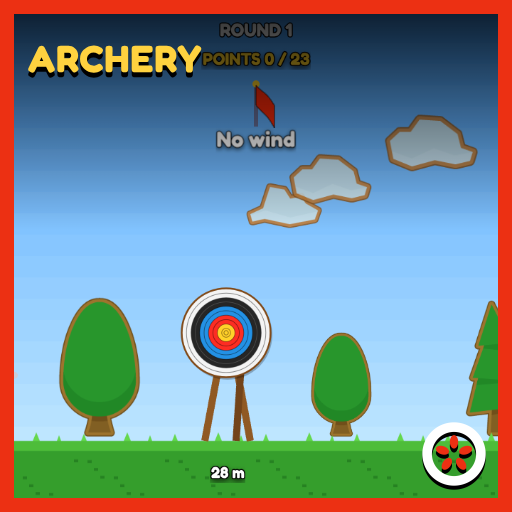
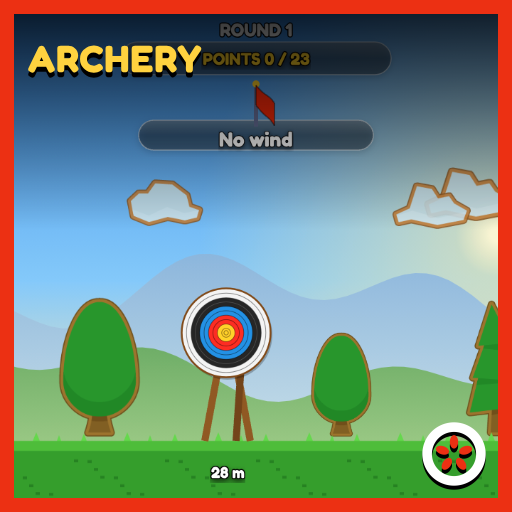
Archery: a side-on draw from the character's poses, scenery and effects
The archer
- stands side-on in the character's hold1 pose, bow arm out in front
  (the grip is found on the pose itself, so every character fits)
- while drawing, the hanging back arm is left out of the pose and the
  character's own arm runs from that shoulder to the string; the string
  comes to the anchor at once and a little further with power
- leans back a little for high shots
- after the release the drawing arm follows through past the ear and
  the string thrums; then back to hold1
- replaces the front-facing armless body with two stretched arms

Polish
- painted sky with a low sun and two ranges of hills
- the bow limbs bend more as it is drawn; arrow head and fletching
- a fading streak behind the arrow and its shadow on the grass
- a ring spreads from where the arrow hits (gold on a 9 or 10)
- glass panels for the points, the quiver and the wind; a rounded
  power gauge; a shadow under the archer
- version 1.1.0

Claude-Session: https://claude.ai/code/session_0175vXZr811A8hQZq6oHnsLr

diff --git a/games/archery/PlayScene.ts b/games/archery/PlayScene.ts
@@ -1,6 +1,6 @@
 import Phaser from 'phaser';
 import { ArcadeScene, CHARACTER_FRAME, Controls, burst, characterRig, playerCharacter, shake, flash, popup, txt, t, rng } from '@core';
-import { W, H, GROUND, RING_COLORS, ARCHER_SCALE, ARCHER_ORIGIN_Y, makeArcheryTextures } from './art';
+import { W, H, GROUND, RING_COLORS, ARCHER_SCALE, ARCHER_ORIGIN_Y, BACK_SHOULDER, makeArcheryTextures, makeDrawBody, glass } from './art';
 
 const BX = 214;            // bow hand
 const BY = GROUND - 74;
@@ -52,12 +52,19 @@ export class PlayScene extends ArcadeScene {
   private clouds: Phaser.GameObjects.Image[] = [];
   private offMark!: Phaser.GameObjects.Triangle;
   private archer!: Phaser.GameObjects.Image;
-  // The archer is the character without arms (pc-archer); these arms hold the bow and draw the
-  // string, posed every frame from the shoulders (character rig) to the grip and the nock.
-  private bowArm!: Phaser.GameObjects.Image;
+  // The archer stands side-on in the character's `hold1` pose, bow arm out in front. While the
+  // bow is drawn the hanging back arm is left out (pc-hold1-draw) and the character's own `arm`
+  // runs from that shoulder to the string; after the release it follows through past the ear.
   private drawArm!: Phaser.GameObjects.Image;
-  private bowHand!: Phaser.GameObjects.Image;
   private drawHand!: Phaser.GameObjects.Image;
+  private drawBody = 'pc-hold1';
+  private grip: [number, number] = [124, 106];   // bow hand on the pose frame
+  private gx = BX; private gy = BY;               // bow hand in the world
+  private lean = 0;
+  private releaseT = 0;
+  private trailG!: Phaser.GameObjects.Graphics;
+  private trail: { x: number; y: number }[] = [];
+  private arrowShadow!: Phaser.GameObjects.Image;
   private rig = characterRig(playerCharacter());
   private wave = 0;
 
@@ -67,7 +74,10 @@ export class PlayScene extends ArcadeScene {
     this.angle = Phaser.Math.DegToRad(-12); this.power = 0; this.drawing = false; this.dragFrom = null; this.kbDraw = false;
     this.wind = 0; this.windBase = 0; this.stuck = []; this.quiver = []; this.dots = []; this.clouds = []; this.flying = undefined; this.wave = 0;
 
-    this.add.image(0, 0, 'sky').setOrigin(0).setDisplaySize(W, H).setDepth(-20);
+    this.add.image(0, 0, 'ar-sky').setOrigin(0).setDepth(-20);
+    this.add.image(0, 0, 'ar-hills-far').setOrigin(0).setDepth(-16);
+    this.add.image(0, 0, 'ar-hills-near').setOrigin(0).setDepth(-12);
+    this.lean = 0; this.releaseT = 0; this.trail = [];
     for (let i = 0; i < 4; i++) {
       const c = this.add.image(rng.int(0, W), rng.int(150, 300), i % 2 ? 'cloud1' : 'cloud2').setDepth(-15).setAlpha(0.9).setScale(rng.int(70, 110) / 100);
       this.clouds.push(c);
@@ -79,23 +89,29 @@ export class PlayScene extends ArcadeScene {
 
     this.stand = this.add.graphics().setDepth(1);
     this.face = this.add.image(this.tx, this.ty, 'face').setDepth(2);
-    this.archer = this.add.image(ARCHER_X, GROUND + 2, 'pc-archer').setOrigin(0.5, ARCHER_ORIGIN_Y).setScale(ARCHER_SCALE).setDepth(5);
+    const made = makeDrawBody(this);
+    this.drawBody = made.body; this.grip = made.grip;
+    this.archer = this.add.image(ARCHER_X, GROUND + 2, 'pc-hold1').setOrigin(0.5, ARCHER_ORIGIN_Y).setScale(ARCHER_SCALE).setDepth(5);
+    this.add.image(ARCHER_X, GROUND + 4, 'ar-glow').setTint(0x000000).setAlpha(0.35).setDisplaySize(90, 18).setDepth(4);
     this.rig = characterRig(playerCharacter());
     const shoulderY = 4 / this.rig.arm[1];   // pivot a few px below the top of the arm
-    this.drawArm = this.add.image(0, 0, 'pc-arm').setOrigin(0.5, shoulderY).setDepth(4);   // far arm, behind the body
     this.bowG = this.add.graphics().setDepth(7);
-    this.bowArm = this.add.image(0, 0, 'pc-arm').setOrigin(0.5, shoulderY).setDepth(8);
-    this.drawHand = this.add.image(0, 0, 'pc-hand').setScale(ARCHER_SCALE).setDepth(9);
-    this.bowHand = this.add.image(0, 0, 'pc-hand').setScale(ARCHER_SCALE).setDepth(9);
+    this.drawArm = this.add.image(0, 0, 'pc-arm').setOrigin(0.5, shoulderY).setDepth(8).setVisible(false);
+    this.drawHand = this.add.image(0, 0, 'pc-hand').setScale(ARCHER_SCALE).setDepth(9).setVisible(false);
+    this.trailG = this.add.graphics().setDepth(7);
+    this.arrowShadow = this.add.image(0, GROUND + 4, 'ar-glow').setTint(0x000000).setAlpha(0).setDisplaySize(60, 8).setDepth(-4);
     this.flagG = this.add.graphics().setDepth(3);
     for (let i = 0; i < 9; i++) this.dots.push(this.add.image(0, 0, 'dot').setDepth(7).setVisible(false));
     this.offMark = this.add.triangle(0, 30, 0, 18, 12, 0, 24, 18, 0xec3013).setDepth(50).setVisible(false);
 
-    this.windText = txt(this, W / 2, 196, '', { size: 26, color: '#ffffff' }).setDepth(40);
+    this.windText = txt(this, W / 2, 196, '', { size: 24, color: '#ffffff' }).setDepth(40);
     this.distText = txt(this, 0, GROUND + 40, '', { title: true, size: 18, color: '#ffffff' }).setDepth(40);
+    this.add.image(W / 2, 82, glass(this, 380, 46)).setDepth(39);
+    this.add.image(92, 90, glass(this, 150, 56)).setDepth(39);
+    this.add.image(W / 2, 190, glass(this, 330, 42)).setDepth(2.5);
     this.needText = txt(this, W / 2, 82, '', { title: true, size: 20, color: '#ffd23f' }).setDepth(40);
     for (let i = 0; i < ARROWS; i++) {
-      this.quiver.push(this.add.image(40 + i * 26, 90, 'arrow').setAngle(-90).setScale(0.55).setDepth(40));
+      this.quiver.push(this.add.image(40 + i * 26, 90, 'arrow').setAngle(-90).setScale(0.5).setDepth(40));
     }
 
     this.controls = new Controls(this);
@@ -210,8 +226,10 @@ export class PlayScene extends ArcadeScene {
 
   private shoot(): void {
     const v = MIN_V + (MAX_V - MIN_V) * this.power;
-    this.ax = BX + Math.cos(this.angle) * 30;
-    this.ay = BY + Math.sin(this.angle) * 30;
+    this.ax = this.gx + Math.cos(this.angle) * 30;
+    this.ay = this.gy + Math.sin(this.angle) * 30;
+    this.releaseT = 0.42;
+    this.trail = [];
     this.avx = Math.cos(this.angle) * v;
     this.avy = Math.sin(this.angle) * v;
     this.flying = this.add.image(this.ax, this.ay, 'arrow').setOrigin(1, 0.5).setDepth(8).setRotation(this.angle);
@@ -278,7 +296,7 @@ export class PlayScene extends ArcadeScene {
   private failRound(): void {
     this.phase = 'between';
     this.sfx('fail', { volume: 0.7 });
-    for (const o of [this.archer, this.bowArm, this.drawArm, this.bowHand, this.drawHand]) o.setTint(0xff9a9a);
+    for (const o of [this.archer, this.drawArm, this.drawHand]) o.setTint(0xff9a9a);
     shake(this, 0.01, 250);
     this.endGame({ title: t('roundFail'), delay: 900 });
   }
@@ -322,9 +340,21 @@ export class PlayScene extends ArcadeScene {
       if (cl.x < -120) cl.x = W + 120;
     }
 
-    this.drawBow();
+    this.releaseT = Math.max(0, this.releaseT - dt);
+    this.drawBow(dt);
     this.drawFlag();
     this.drawPreview();
+    // a fading streak behind the arrow and its shadow on the grass
+    const tg = this.trailG;
+    tg.clear();
+    if (this.phase === 'flight') {
+      for (let i = 1; i < this.trail.length; i++) {
+        const a = this.trail[i - 1], b = this.trail[i], f = i / this.trail.length;
+        tg.lineStyle(1 + f * 3, 0xffffff, 0.45 * f).lineBetween(a.x, a.y, b.x, b.y);
+      }
+      const h = Math.max(0, GROUND - this.ay);
+      this.arrowShadow.setPosition(this.ax - 30, GROUND + 4).setAlpha(Math.max(0.08, 0.4 - h / 1200)).setDisplaySize(70 + h * 0.08, 8);
+    } else this.arrowShadow.setAlpha(0);
   }
 
   private fly(dt: number): void {
@@ -352,6 +382,9 @@ export class PlayScene extends ArcadeScene {
           this.tweens.add({ targets: a, scaleX: { from: 1.08, to: 1 }, duration: 120, yoyo: true });
           this.tweens.add({ targets: this.face, x: this.tx + 6, duration: 50, yoyo: true });
           burst(this, this.tx, yc, [0xc9a26b, 0xffffff, RING_COLORS[pts - 1]], 14, 220);
+          const ring = this.add.image(this.tx, yc, 'ar-ring').setScale(0.1).setDepth(6).setTint(pts >= 9 ? 0xffd23f : 0xffffff);
+          this.tweens.add({ targets: ring, scale: this.tr / 40, alpha: 0, duration: 380, ease: 'Cubic.easeOut', onComplete: () => ring.destroy() });
+          this.trail = [];
           this.sfx('thunk', { volume: 0.7 });
           shake(this, 0.004, 120);
           this.resolve(pts, this.tx, yc, x ? 'X' : undefined);
@@ -362,6 +395,7 @@ export class PlayScene extends ArcadeScene {
         a.setPosition(this.ax, GROUND + 6).setRotation(Math.atan2(this.avy, this.avx));
         this.stuck.push({ img: a, dy: 0, onTarget: false });
         burst(this, this.ax, GROUND, [0x6b4a2b, 0x58b947], 12, 200);
+        this.trail = [];
         this.sfx('ground', { volume: 0.6 });
         this.resolve(0, this.ax, GROUND);
         return;
@@ -373,56 +407,87 @@ export class PlayScene extends ArcadeScene {
       }
     }
     a.setPosition(this.ax, this.ay).setRotation(Math.atan2(this.avy, this.avx));
+    this.trail.push({ x: this.ax, y: this.ay });
+    if (this.trail.length > 14) this.trail.shift();
     // off the top of the screen: a marker shows where the arrow is
     this.offMark.setVisible(this.ay < 0).setPosition(Phaser.Math.Clamp(this.ax, 20, W - 20), 26);
     if (this.ay >= 0) this.offMark.setVisible(false);
   }
 
-  private drawBow(): void {
+  /** A point of the pose frame (px) in the world, with the archer's position, scale and lean. */
+  private framePt(fx: number, fy: number): [number, number] {
+    const lx = (fx - CHARACTER_FRAME.width / 2) * ARCHER_SCALE, ly = (fy - CHARACTER_FRAME.height * CHARACTER_FRAME.originY) * ARCHER_SCALE;
+    const c = Math.cos(this.lean), s = Math.sin(this.lean);
+    return [this.archer.x + lx * c - ly * s, this.archer.y + lx * s + ly * c];
+  }
+
+  private drawBow(dt: number): void {
     const g = this.bowG;
     g.clear();
+    const drawing = this.phase === 'aim' && (this.power > 0 || !!this.dragFrom || this.kbDraw);
+    const follow = this.releaseT > 0;
+    // the archer leans back a little to shoot high, and steps into it with the draw
+    const target = this.phase === 'aim' || follow ? Phaser.Math.Clamp(this.angle * 0.42, -0.36, 0.1) : 0;
+    this.lean += (target - this.lean) * Math.min(1, dt * 10);
+    this.archer.setRotation(this.lean).setTexture(drawing || follow ? this.drawBody : 'pc-hold1');
+    const [gx, gy] = this.framePt(this.grip[0], this.grip[1]);
+    this.gx = gx; this.gy = gy;
     const ang = this.angle;
     const cos = Math.cos(ang), sin = Math.sin(ang);
-    const P = (lx: number, ly: number): [number, number] => [BX + lx * cos - ly * sin, BY + lx * sin + ly * cos];
-    const pull = 4 + this.power * 42;
+    const P = (lx: number, ly: number): [number, number] => [gx + lx * cos - ly * sin, gy + lx * sin + ly * cos];
+    // the string comes back to the anchor by the jaw at once, then a little further with power
+    const pull = drawing ? (30 + this.power * 12) * ARCHER_SCALE / 0.76 : follow ? 2 : 4;
     const shakeAmt = this.power > 0.95 ? Math.sin(this.wave * 60) * 1.2 : 0;
-    // limbs
-    const curve = new Phaser.Curves.QuadraticBezier(new Phaser.Math.Vector2(...P(-6, -52)), new Phaser.Math.Vector2(...P(26, 0)), new Phaser.Math.Vector2(...P(-6, 52)));
-    g.lineStyle(9, 0x5a3010).strokePoints(curve.getPoints(16));
-    g.lineStyle(4, 0xb5793c).strokePoints(curve.getPoints(16));
-    // string
-    const [sx1, sy1] = P(-6, -52), [sx2, sy2] = P(-6, 52), [nx, ny] = P(-pull, shakeAmt);
+    // after the release the string thrums
+    const thrum = follow ? Math.sin(this.releaseT * 90) * 6 * (this.releaseT / 0.42) : 0;
+    // limbs bend more as the string comes back
+    const bend = 26 + (drawing ? this.power * 8 : 0);
+    const curve = new Phaser.Curves.QuadraticBezier(new Phaser.Math.Vector2(...P(-6, -52)), new Phaser.Math.Vector2(...P(bend, 0)), new Phaser.Math.Vector2(...P(-6, 52)));
+    g.lineStyle(9, 0x4a2608).strokePoints(curve.getPoints(16));
+    g.lineStyle(4, 0xc08546).strokePoints(curve.getPoints(16));
+    const [sx1, sy1] = P(-6, -52), [sx2, sy2] = P(-6, 52), [nx, ny] = P(-pull + thrum, shakeAmt);
     g.lineStyle(2, 0xffffff, 0.9).lineBetween(sx1, sy1, nx, ny).lineBetween(nx, ny, sx2, sy2);
-    // arms: the front shoulder holds the grip, the back shoulder draws the string at the nock
-    const [gx, gy] = P(2, 0);
-    this.poseArm(this.bowArm, this.bowHand, this.rig.shoulders[1], gx, gy);
-    this.poseArm(this.drawArm, this.drawHand, this.rig.shoulders[0], nx, ny);
-    // nocked arrow
-    if (this.phase === 'aim' || this.phase === 'between') {
-      if (this.phase === 'aim') {
-        const [tx, ty] = P(-pull + 92, shakeAmt);
-        g.lineStyle(4, 0x8a5a2b).lineBetween(nx, ny, tx, ty);
-        g.fillStyle(0xc9cdd8).fillCircle(tx, ty, 5);
-        g.fillStyle(0xec3013).fillCircle(nx, ny, 5);
+    // grip wrap over the bow hand
+    const [wx, wy] = P(4, 0);
+    g.fillStyle(0x2a1405).fillCircle(wx, wy, 5);
+    // the drawing arm: from the back shoulder to the string, or flung back after the release
+    if (drawing || follow) {
+      const shoulder = this.framePt(BACK_SHOULDER[0], BACK_SHOULDER[1]);
+      let hx = nx, hy = ny;
+      if (follow) {
+        const k = 1 - this.releaseT / 0.42;
+        const [ax, ay] = P(-34, 0);
+        const back = Phaser.Math.Easing.Cubic.Out(Math.min(1, k * 2.5));
+        hx = ax - back * 26 * ARCHER_SCALE / 0.76; hy = ay - back * 14 * ARCHER_SCALE / 0.76;
       }
+      this.drawArm.setVisible(true); this.drawHand.setVisible(true);
+      this.poseArm(this.drawArm, this.drawHand, shoulder, hx, hy);
+    } else { this.drawArm.setVisible(false); this.drawHand.setVisible(false); }
+    // nocked arrow
+    if (this.phase === 'aim') {
+      const [tx, ty] = P(-pull + 92, shakeAmt);
+      g.lineStyle(4, 0x8a5a2b).lineBetween(nx, ny, tx, ty);
+      g.fillStyle(0xc9cdd8).fillTriangle(tx + cos * 8, ty + sin * 8, tx - sin * 5, ty + cos * 5, tx + sin * 5, ty - cos * 5);
+      const [fx1, fy1] = P(-pull + 4, -5), [fx2, fy2] = P(-pull + 4, 5), [fx3, fy3] = P(-pull + 16, 0);
+      g.fillStyle(0xec3013).fillTriangle(fx1, fy1, fx2, fy2, fx3, fy3);
     }
     // power gauge
     if (this.phase === 'aim' && this.power > 0) {
-      g.fillStyle(0x000000, 0.5).fillRect(BX - 80, GROUND + 24, 160, 18);
+      g.fillStyle(0x000000, 0.5).fillRoundedRect(BX - 82, GROUND + 22, 164, 22, 8);
       const col = this.power > 0.85 ? 0xec3013 : this.power > 0.5 ? 0xffd23f : 0x5dff7a;
-      g.fillStyle(col).fillRect(BX - 78, GROUND + 26, 156 * this.power, 14);
+      g.fillStyle(col).fillRoundedRect(BX - 78, GROUND + 26, 156 * this.power, 14, 6);
+      g.fillStyle(0xffffff, 0.35).fillRoundedRect(BX - 76, GROUND + 27, 152 * this.power, 4, 2);
     }
   }
 
-  /** Points an arm from a shoulder (frame px of the rig) to a hand position in the world. */
+  /** Points an arm from a shoulder (world) to a hand position in the world. */
   private poseArm(arm: Phaser.GameObjects.Image, hand: Phaser.GameObjects.Image, shoulder: [number, number], hx: number, hy: number): void {
-    const sx = this.archer.x + (shoulder[0] - CHARACTER_FRAME.width / 2) * ARCHER_SCALE;
-    const sy = this.archer.y + (shoulder[1] - CHARACTER_FRAME.height * CHARACTER_FRAME.originY) * ARCHER_SCALE;
+    const [sx, sy] = shoulder;
     const dist = Math.hypot(hx - sx, hy - sy);
-    // the arm image hangs down from the shoulder; it stretches or shortens to reach the hand
+    // the arm image hangs down from the shoulder; it shortens a little when the hand comes close
     const length = this.rig.arm[1] * ARCHER_SCALE;
     arm.setPosition(sx, sy).setRotation(Math.atan2(hy - sy, hx - sx) - Math.PI / 2)
-      .setScale(ARCHER_SCALE, ARCHER_SCALE * Phaser.Math.Clamp(dist / length, 0.45, 2.2));
+      .setScale(ARCHER_SCALE, ARCHER_SCALE * Phaser.Math.Clamp(dist / length, 0.6, 1.25));
     hand.setPosition(hx, hy).setRotation(arm.rotation);
   }
 
@@ -433,8 +498,8 @@ export class PlayScene extends ArcadeScene {
     this.dots.forEach((d, i) => {
       if (!show) { d.setVisible(false); return; }
       const tt = ((i + 1) / this.dots.length) * span;
-      const x = BX + Math.cos(this.angle) * (30 + v * tt);
-      const y = BY + Math.sin(this.angle) * 30 + Math.sin(this.angle) * v * tt + 0.5 * GRAV * tt * tt;
+      const x = this.gx + Math.cos(this.angle) * (30 + v * tt);
+      const y = this.gy + Math.sin(this.angle) * 30 + Math.sin(this.angle) * v * tt + 0.5 * GRAV * tt * tt;
       d.setVisible(true).setPosition(x, y).setAlpha(1 - i / this.dots.length).setScale(0.9 - i * 0.06);
     });
   }

diff --git a/games/archery/art.ts b/games/archery/art.ts
@@ -12,7 +12,95 @@ export const ARCHER_ORIGIN_Y = CHARACTER_FRAME.originY;
 /** WA-style ten ring face: white, black, blue, red, gold (two rings each). */
 export const RING_COLORS = [0xf4f4f4, 0xf4f4f4, 0x262626, 0x262626, 0x2f8fd8, 0x2f8fd8, 0xe8332a, 0xe8332a, 0xffd23f, 0xffd23f];
 
+function canvas(scene: Phaser.Scene, key: string, w: number, h: number, draw: (c: CanvasRenderingContext2D) => void): void {
+  if (scene.textures.exists(key)) return;
+  const tex = scene.textures.createCanvas(key, w, h);
+  if (!tex) return;
+  draw(tex.getContext());
+  tex.refresh();
+}
+
+/** Painted scenery and effects: a sky with a low sun, two ranges of hills, glow and ring sprites. */
+function makeScenery(scene: Phaser.Scene): void {
+  canvas(scene, 'ar-sky', W, H, (c) => {
+    const g = c.createLinearGradient(0, 0, 0, H);
+    g.addColorStop(0, '#3b86d8'); g.addColorStop(0.55, '#8cc8f2'); g.addColorStop(0.85, '#f6e7c1'); g.addColorStop(1, '#f7d9a0');
+    c.fillStyle = g; c.fillRect(0, 0, W, H);
+    const sun = c.createRadialGradient(980, 330, 10, 980, 330, 420);
+    sun.addColorStop(0, 'rgba(255,248,214,0.95)'); sun.addColorStop(0.12, 'rgba(255,236,170,0.55)'); sun.addColorStop(1, 'rgba(255,236,170,0)');
+    c.fillStyle = sun; c.fillRect(0, 0, W, H);
+  });
+  const hills = (key: string, base: number, amp: number, col: string, haze: string, seed: number) => canvas(scene, key, W, H, (c) => {
+    c.beginPath(); c.moveTo(0, H);
+    for (let x = 0; x <= W; x += 16) c.lineTo(x, base - amp * (0.55 + 0.45 * Math.sin(x * 0.006 + seed) * Math.sin(x * 0.013 + seed * 2)));
+    c.lineTo(W, H); c.closePath();
+    const g = c.createLinearGradient(0, base - amp, 0, GROUND);
+    g.addColorStop(0, col); g.addColorStop(1, haze);
+    c.fillStyle = g; c.fill();
+  });
+  hills('ar-hills-far', GROUND - 120, 150, '#8fb4d6', '#c9dde6', 1.7);
+  hills('ar-hills-near', GROUND - 40, 110, '#6fa86a', '#9cc58a', 4.2);
+  canvas(scene, 'ar-glow', 128, 128, (c) => {
+    const g = c.createRadialGradient(64, 64, 0, 64, 64, 64);
+    g.addColorStop(0, 'rgba(255,255,255,1)'); g.addColorStop(0.3, 'rgba(255,255,255,0.4)'); g.addColorStop(1, 'rgba(255,255,255,0)');
+    c.fillStyle = g; c.fillRect(0, 0, 128, 128);
+  });
+  canvas(scene, 'ar-ring', 128, 128, (c) => {
+    c.shadowColor = '#ffffff'; c.shadowBlur = 8;
+    c.beginPath(); c.arc(64, 64, 52, 0, Math.PI * 2); c.strokeStyle = '#ffffff'; c.lineWidth = 6; c.stroke();
+  });
+}
+
+/** A dark glass panel with a light rim. */
+export function glass(scene: Phaser.Scene, w: number, h: number): string {
+  const key = `ar-glass-${w}x${h}`, pad = 10;
+  canvas(scene, key, w + pad * 2, h + pad * 2, (c) => {
+    const rr = (x: number, y: number, ww: number, hh: number, r: number) => {
+      c.beginPath(); c.moveTo(x + r, y); c.arcTo(x + ww, y, x + ww, y + hh, r); c.arcTo(x + ww, y + hh, x, y + hh, r); c.arcTo(x, y + hh, x, y, r); c.arcTo(x, y, x + ww, y, r); c.closePath();
+    };
+    c.save(); c.shadowColor = 'rgba(0,0,0,0.35)'; c.shadowBlur = 10; c.shadowOffsetY = 3;
+    rr(pad, pad, w, h, h / 2); c.fillStyle = 'rgba(10,24,40,0.5)'; c.fill(); c.restore();
+    const g = c.createLinearGradient(0, pad, 0, pad + h);
+    g.addColorStop(0, 'rgba(255,255,255,0.28)'); g.addColorStop(0.5, 'rgba(255,255,255,0.06)'); g.addColorStop(1, 'rgba(255,255,255,0.1)');
+    rr(pad, pad, w, h, h / 2); c.fillStyle = g; c.fill();
+    c.lineWidth = 1.5; c.strokeStyle = 'rgba(255,255,255,0.55)'; c.stroke();
+  });
+  return key;
+}
+
+/**
+ * The archer while drawing: the `hold1` pose (bow arm out in front) without the arm that hangs
+ * at the back; the game poses the character's own `arm` from that shoulder to the string.
+ */
+export const BACK_SHOULDER: [number, number] = [32, 108];
+export function makeDrawBody(scene: Phaser.Scene, key = 'pc-hold1'): { body: string; grip: [number, number] } {
+  const out = `${key}-draw`;
+  const src = scene.textures.get(key).getSourceImage() as HTMLImageElement | HTMLCanvasElement;
+  let grip: [number, number] = [124, 106];
+  if (!scene.textures.exists(out)) {
+    canvas(scene, out, src.width, src.height, (c) => {
+      c.drawImage(src, 0, 0);
+      c.clearRect(0, 110, 40, src.height - 110);
+    });
+  }
+  // the bow hand: the right-most column of the pose, a few px in from the knuckles
+  const probe = document.createElement('canvas');
+  probe.width = src.width; probe.height = src.height;
+  const pc = probe.getContext('2d');
+  if (pc) {
+    pc.drawImage(src, 0, 0);
+    const d = pc.getImageData(0, 0, src.width, src.height).data;
+    let mx = -1;
+    for (let x = src.width - 1; x >= 0 && mx < 0; x--) for (let y = 0; y < src.height; y++) if (d[(y * src.width + x) * 4 + 3] > 128) { mx = x; break; }
+    let sy = 0, n = 0;
+    for (let y = 0; y < src.height; y++) for (let x = mx - 6; x <= mx; x++) if (d[(y * src.width + x) * 4 + 3] > 128) { sy += y; n++; }
+    if (mx > 0 && n) grip = [mx - 8, sy / n];
+  }
+  return { body: out, grip };
+}
+
 export function makeArcheryTextures(scene: Phaser.Scene): void {
+  makeScenery(scene);
   if (scene.textures.exists('face')) return;
   const g = scene.make.graphics({ x: 0, y: 0 }, false);
   const R = 128;

diff --git a/games/archery/main.ts b/games/archery/main.ts
@@ -12,8 +12,9 @@ launch({
   physics: 'none',
   preload(scene) {
     const l = scene.load;
-    // the player's chosen character: pc-stand on the menu; in play the armless pc-archer with arms posed on the bow
-    loadCharacter(l, { poses: ['stand', 'archer', 'arm', 'hand'] });
+    // the player's chosen character: pc-stand on the menu; in play side-on in hold1 (bow arm out),
+    // with the character's own arm drawing the string
+    loadCharacter(l, { poses: ['stand', 'hold1', 'arm', 'hand'] });
     l.image('cloud1', kenney(SG + 'cloud1.png'));
     l.image('cloud2', kenney(SG + 'cloud2.png'));
     l.image('tree_oak', kenney(SG + 'tree_oak.png'));
@@ -32,7 +33,9 @@ launch({
   },
   menuDecor(scene) {
     makeArcheryTextures(scene);
-    scene.add.image(0, 0, 'sky').setOrigin(0).setDisplaySize(W, H).setAlpha(0.5);
+    scene.add.image(0, 0, 'ar-sky').setOrigin(0).setAlpha(0.6);
+    scene.add.image(0, 0, 'ar-hills-far').setOrigin(0).setAlpha(0.6);
+    scene.add.image(0, 0, 'ar-hills-near').setOrigin(0).setAlpha(0.6);
     scene.add.tileSprite(0, GROUND - 12, W, 112, 'turf').setOrigin(0).setAlpha(0.85);
     // above the how-to text, which reaches the right side of the menu at y 515-580
     const face = scene.add.image(W * 0.85, GROUND - 250, 'face').setScale(0.7);

diff --git a/platform/arcade-catalog.ts b/platform/arcade-catalog.ts
@@ -112,6 +112,7 @@ export const ARCADE_GAMES: SeedGame[] = [
     tags: ['archery', 'retro'],
     orientation: 'landscape',
     input: ['touch', 'keyboard', 'mouse'],
+    version: '1.1.0',
     addedAt: '2026-10-29',
   }),
   arcadeGame({
